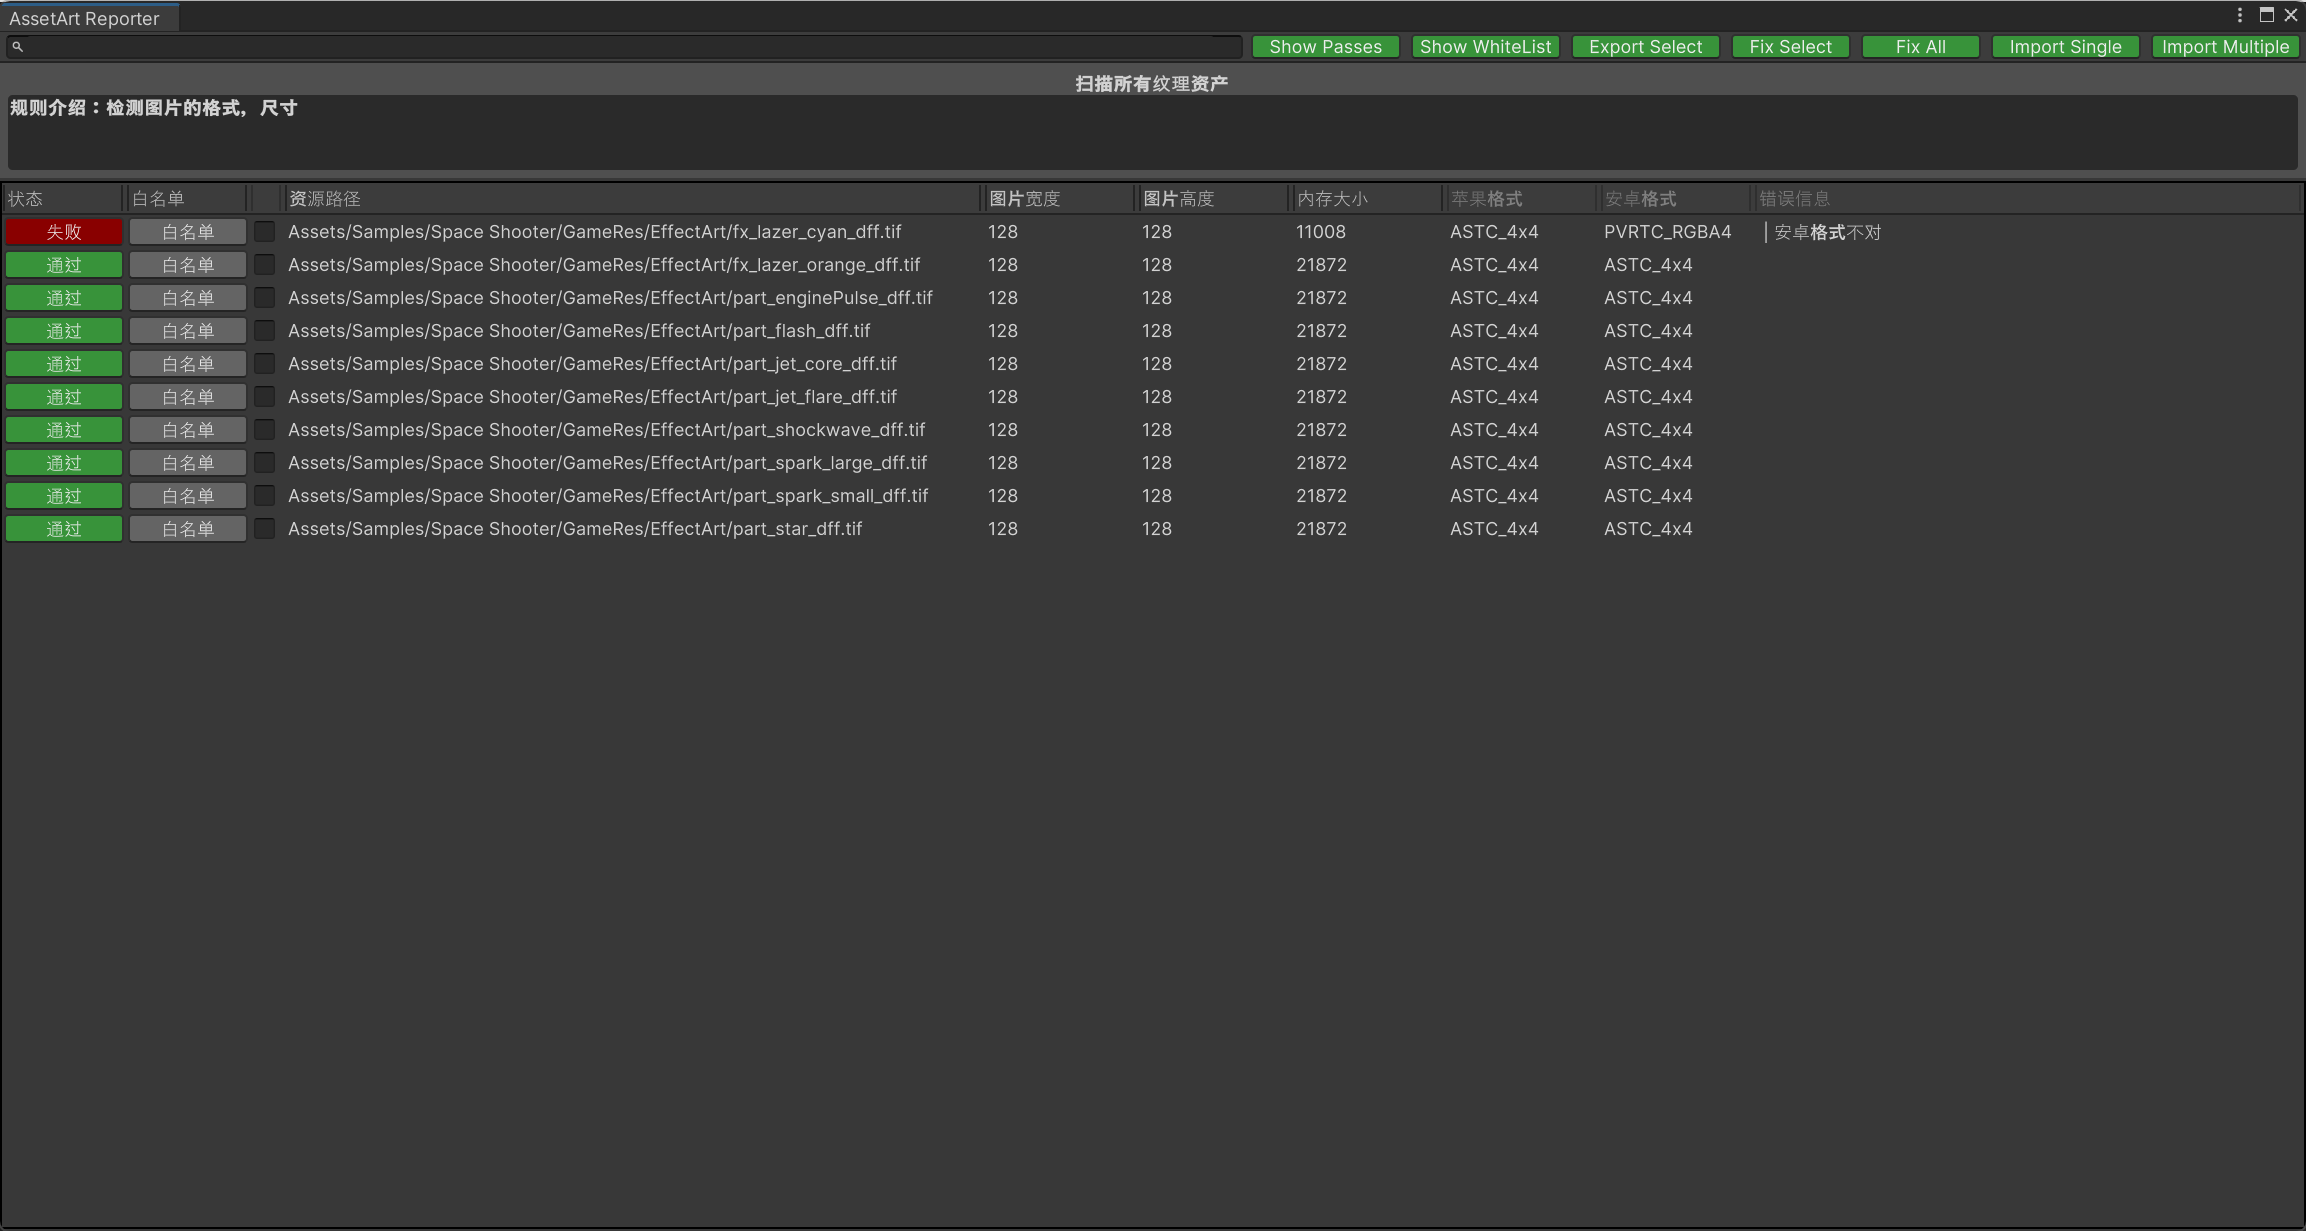
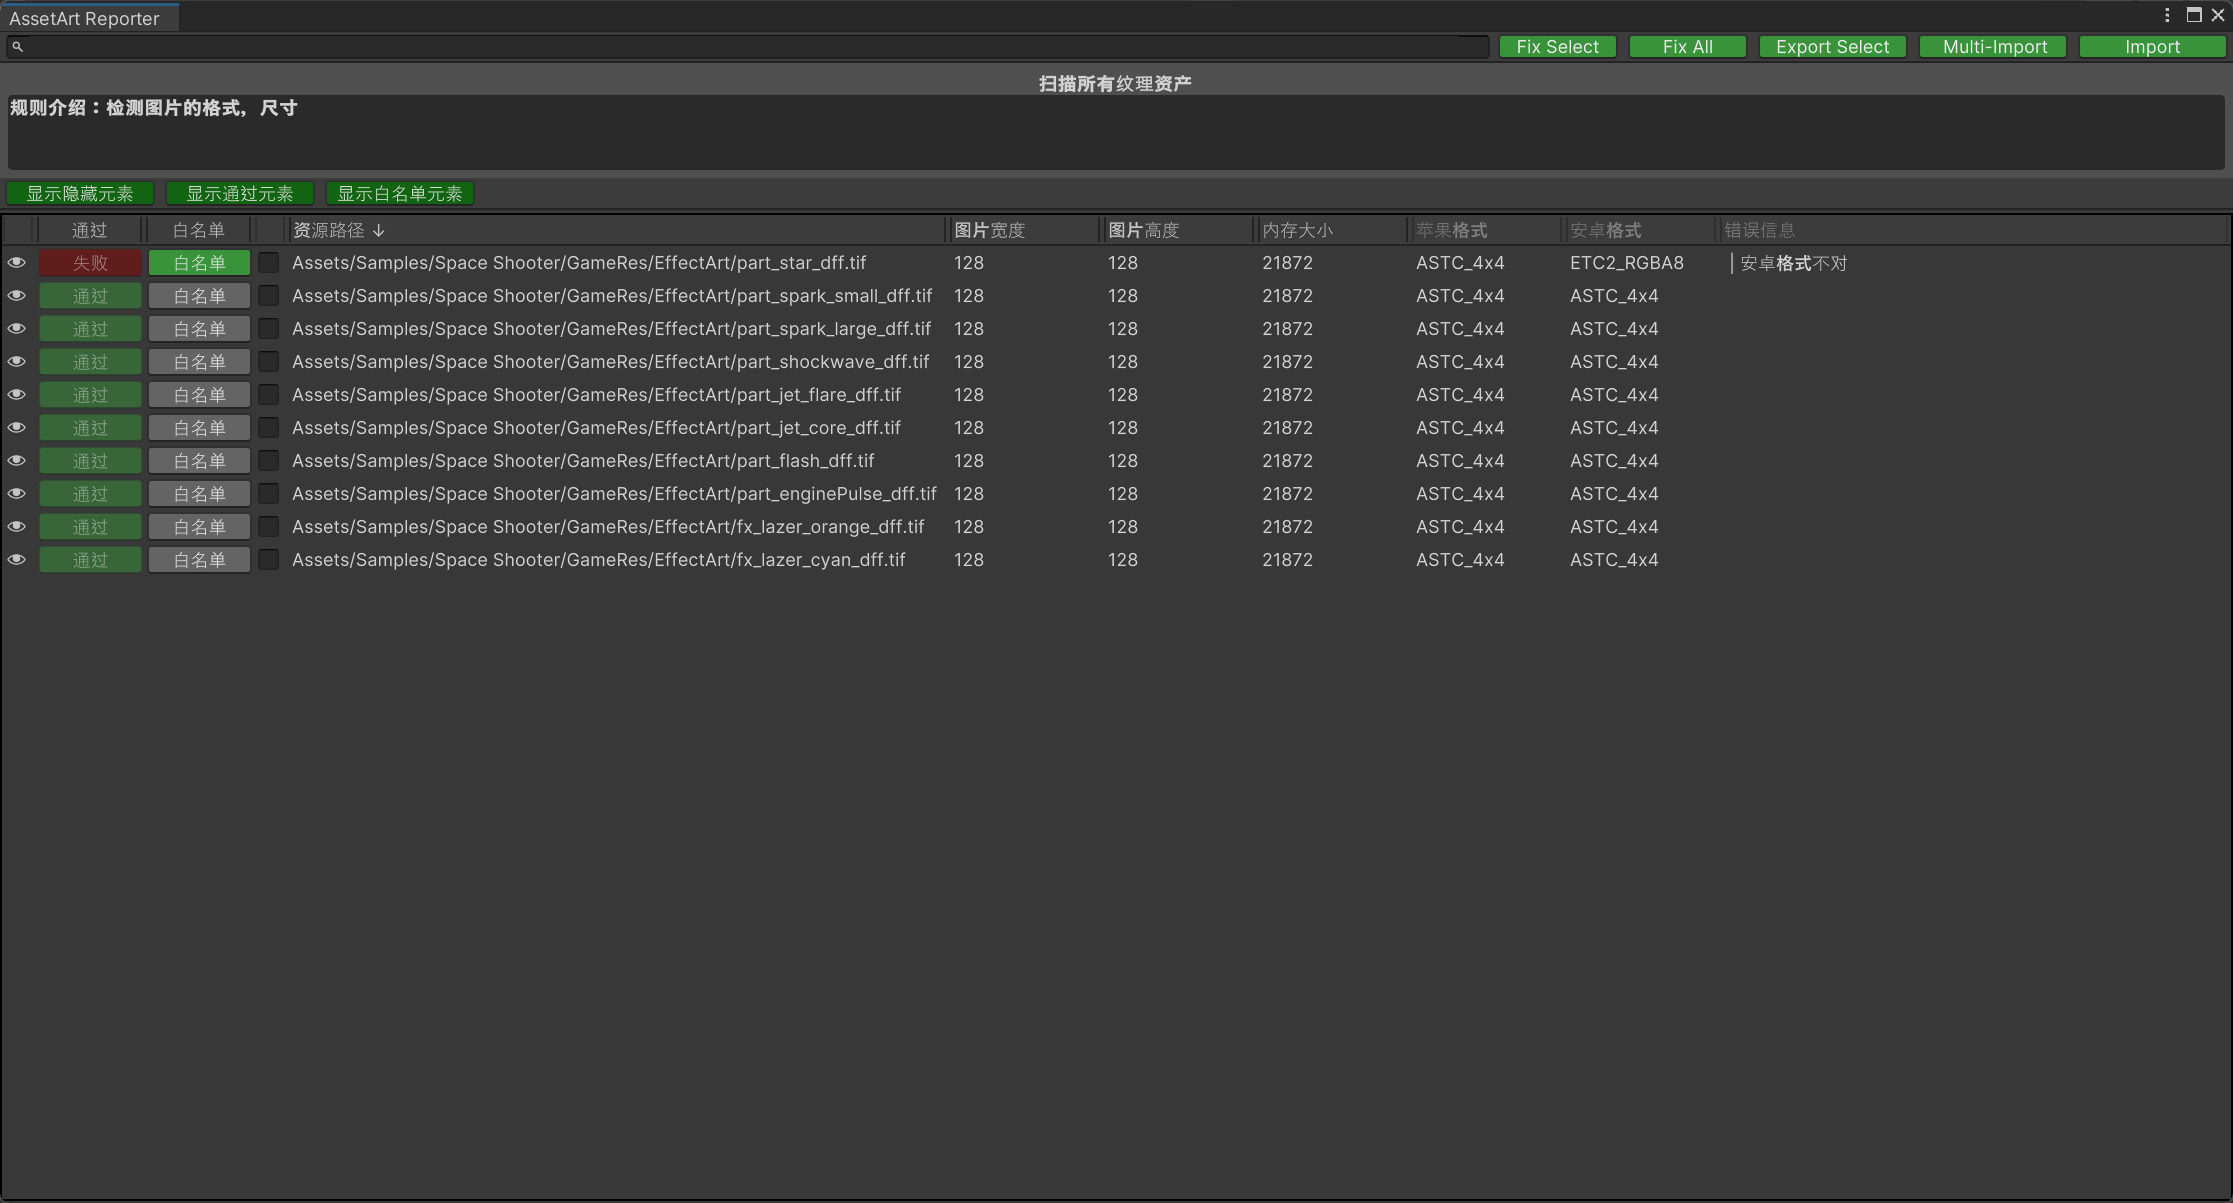
update docs

diff --git a/yoo-website/versioned_docs/version-2.2.x/001-guide-editor/011-AssetArtReporter.md b/yoo-website/versioned_docs/version-2.2.x/001-guide-editor/011-AssetArtReporter.md
@@ -6,19 +6,21 @@
 
 ### 工具介绍
 
-导入按钮（Import Single）：可以导入单个报告文件。
+导入按钮（Import）：可以导入单个报告文件。
 
-导入按钮（Import Multiple）：可以同时导入多个报告文件并合并显示（**注意**：扫描器必须一致）。
-
-修复所有按钮（Fix All）：修复所有未通过元素（白名单除外）。
-
-修复选择按钮（Fix Select）：修复所有勾选的元素（包括白名单）。
+导入按钮（Multi-Import）：可以同时导入多个报告文件并合并显示（**注意**：扫描器必须一致）。
 
 导出选择按钮（Export Select）：导出所有勾选的元素关联的资源文件（文件拷贝）。
 
-显示白名单（Show WhiteList）：显示或隐藏所有白名单的元素。
+修复所有按钮（Fix All）：修复所有未通过元素。
 
-显示通过元素（Show Passes）：显示或隐藏所有通过的元素。
+修复选择按钮（Fix Select）：修复所有勾选的元素。
+
+显示隐藏元素：显示隐藏元素（眼睛开关控制显隐）。
+
+显示通过元素：显示通过元素。
+
+显示白名单元素：显示白名单元素。
 
 **注意**：该工具仅支持Unity2019.4+
 
